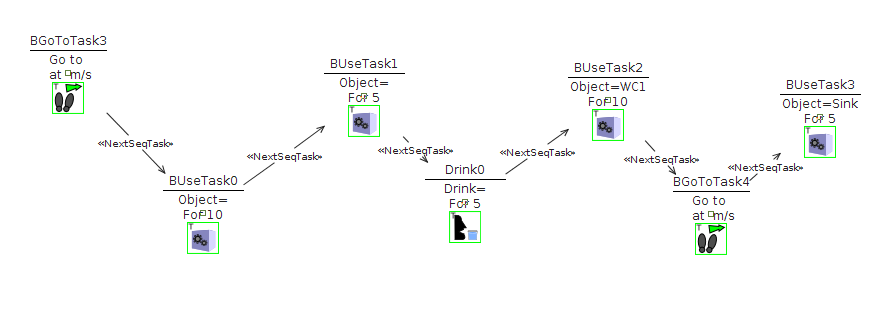
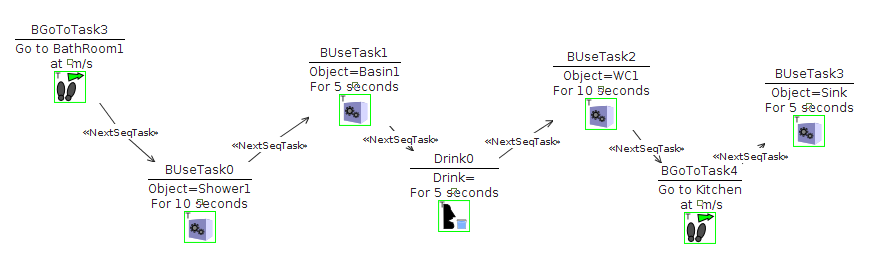
Add images. Add more text to description.md

Changed region(s): [[0.0931, 0.1778, 0.9931, 0.9185], [0.0, 0.0889, 0.1552, 0.3852]]

diff --git a/e3interviewModel/documentation/description.md b/e3interviewModel/documentation/description.md
@@ -1,3 +1,4 @@
+#Description
 This project focuses on the interview to patient E3. 
 
 The patient is an 86 year old female who was diagnosed as having an incipient senility 4 or 5 years ago, when she started noticing she sometimes forgot words and phone numbers.
@@ -16,7 +17,64 @@ The problems they report she has are the following:
 
 She is mostly aware of her illness and age and has more or less accepted she is close to death. This results in a better character and humour and giving less importance to small things.
 
-For this use-case three symptoms have been modelled: 
-* Forgetfulness when speaking with a low probability (0.075) of forgeting what she was going to say.
-* Lower energy drive was modelled by applying a delay (200) filter to actions such as getting out of bed or standing up from a chair.
-* Difficulties when taking decisions have been modeled by applying a low probability (0.075) of replacing any task with one in which she says: "I'm not sure what to do"
+---
+
+Three different simulations have been made that try to mimic some of these symptoms as close as possible. The symptoms are the following:
+
+![alt text](symptoms.png "Symptoms diagram")
+
+---
+
+##Patient sometimes forgets words
+
+For this case we modelled a conversation and made a filter that makes her unable to speak on occasion.
+
+An InteractionDiagram was created that tries to simulate a conversation between both agents.
+
+![alt text](speechInteraction.png "Speech interaction diagram")
+
+The filter for this symptom was implemented using a filter of the type unable with a low probability (0.075) of this event happening.
+
+![alt text](speechFilter.png "Speech filter implementation")
+
+The resulting initialization of the simulation is as follows:
+
+![alt text](speechInit.png "Speech simulation initialization")
+
+---
+
+##Patient is described as having a lower energy drive
+
+In this case we made a simple sequence of getting in & out of bed, moving and using a chair. A filter is then applied that makes these actions take a longer time.
+
+The sequence of movements the agent performs is this:
+
+![alt text](movementSequence.png "Movement sequence diagram")
+
+For this symptom we used a delay filter that makes her act more slowly (50%)
+
+![alt text](movementFilter.png "Movement filter implementation")
+
+The resulting initialization is the following:
+
+![alt text](movementInit.png "Movement simulation initialization")
+
+---
+
+##Patient sometimes forgets a task she was about to perform
+
+For this simulation a sequence of task was constructed that tries to mimic typical actions performed in the morning such as showering. A filter is then applied that cancels some of the tasks that have to be performed.
+
+The movements the agent makes are these:
+
+![alt text](tasksSequence.png "Tasks sequence diagram")
+
+For this symptom we used a replace task filter that changes the task to one in which the agent states out loud she doesn't know what to do. The filter then is:
+
+![alt text](tasksFilter.png "Tasks filter implementation")
+
+To init the simulation we apply the following variables
+
+![alt text](movementInit.png "Movement simulation initialization")
+
+---
